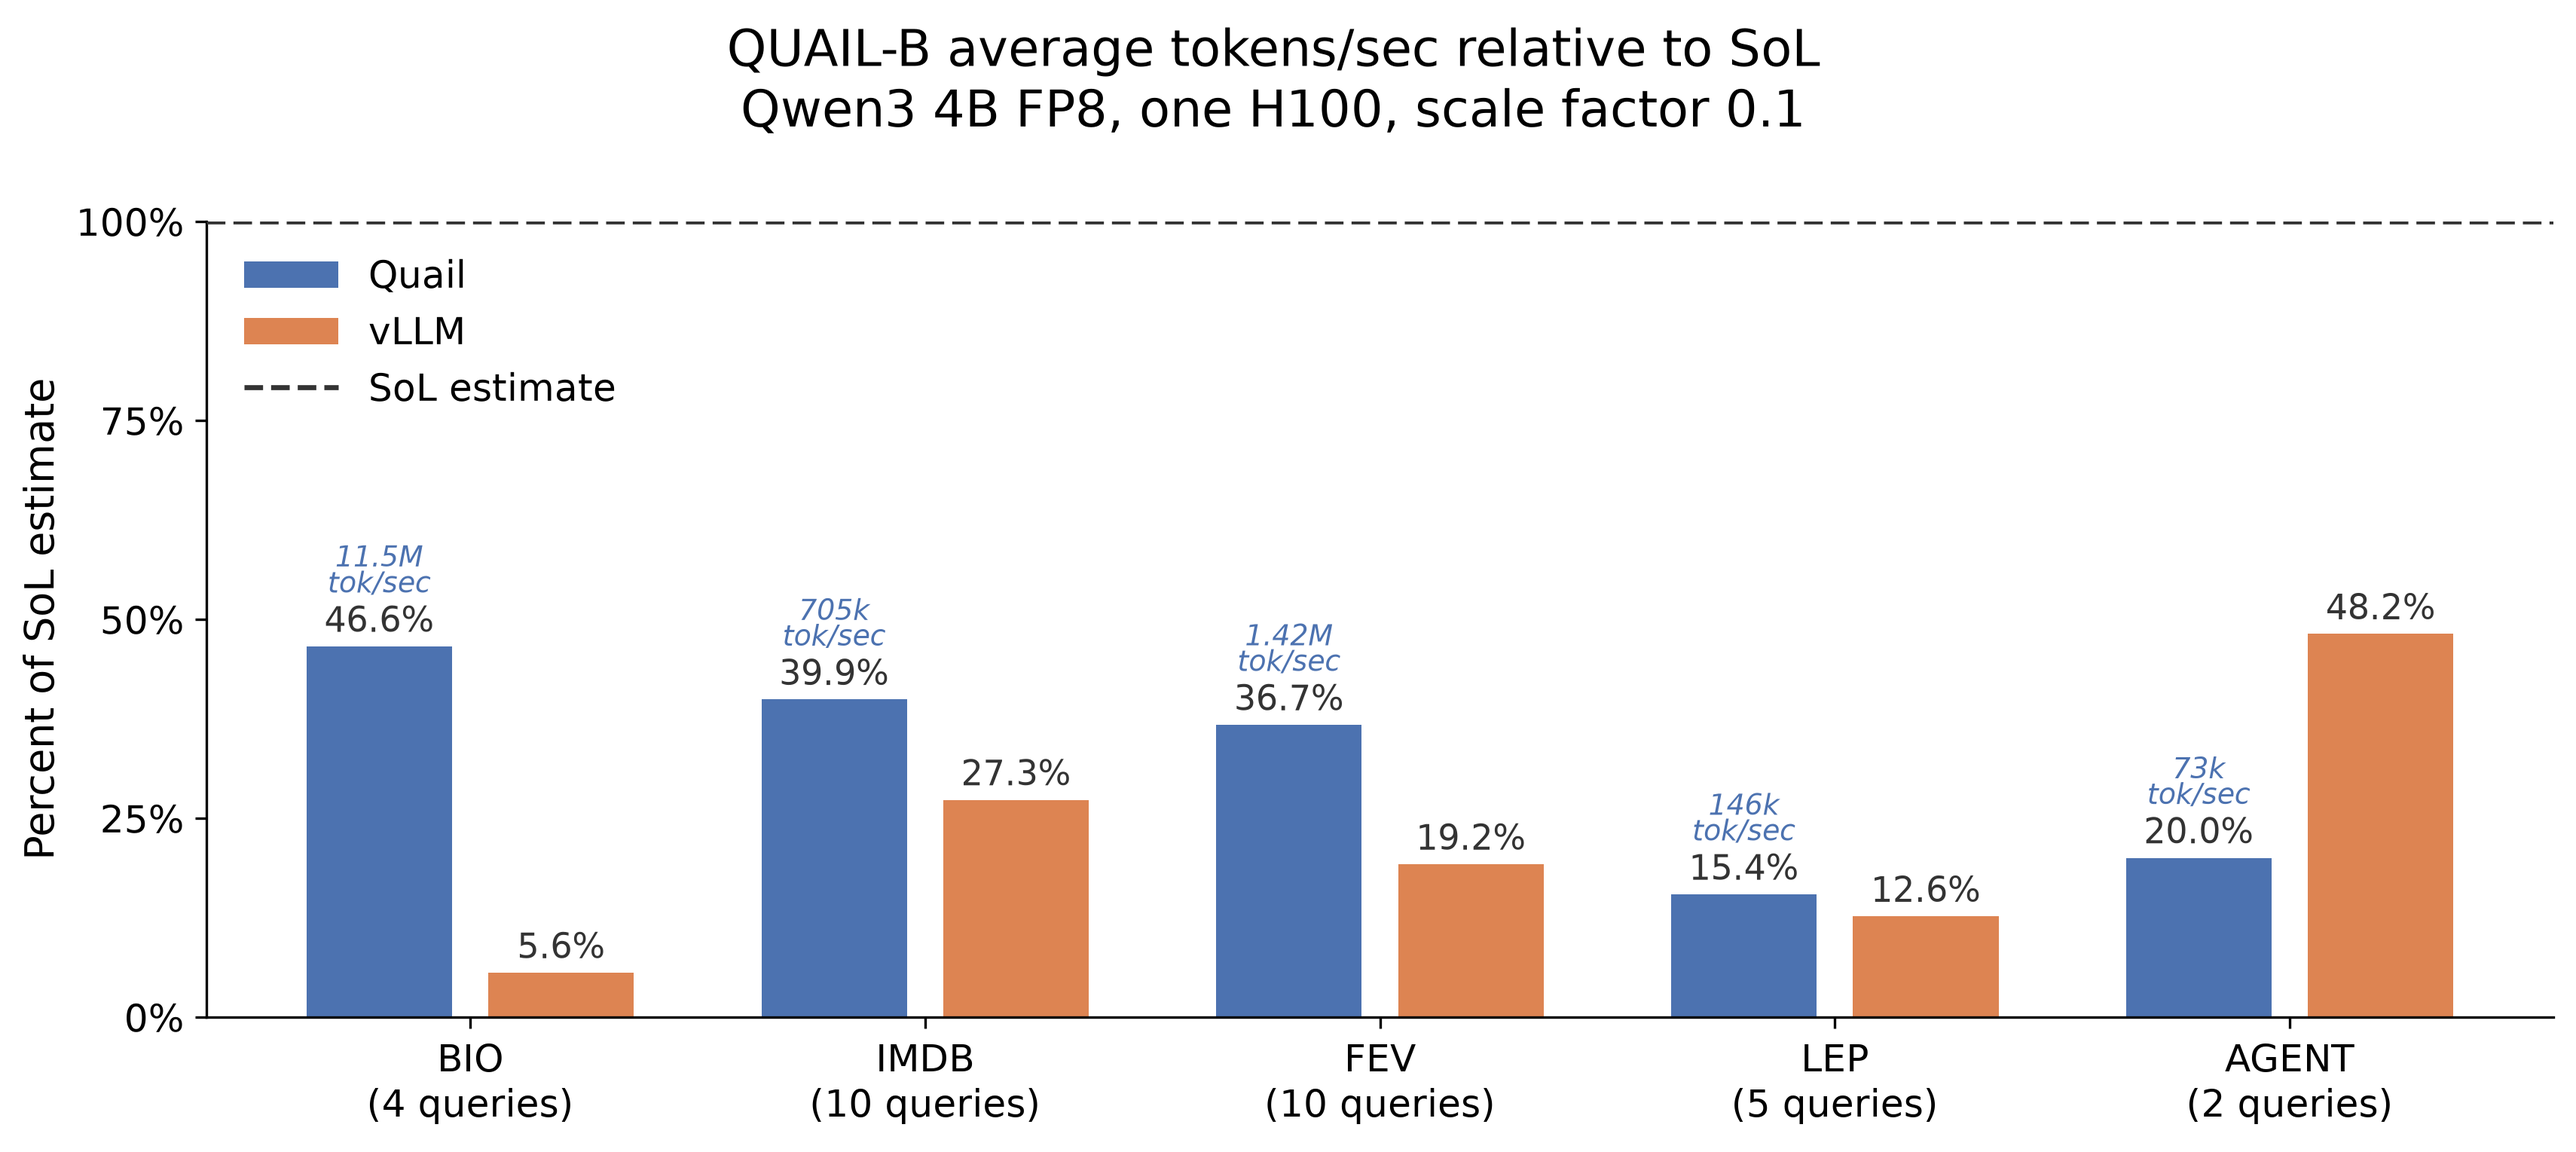
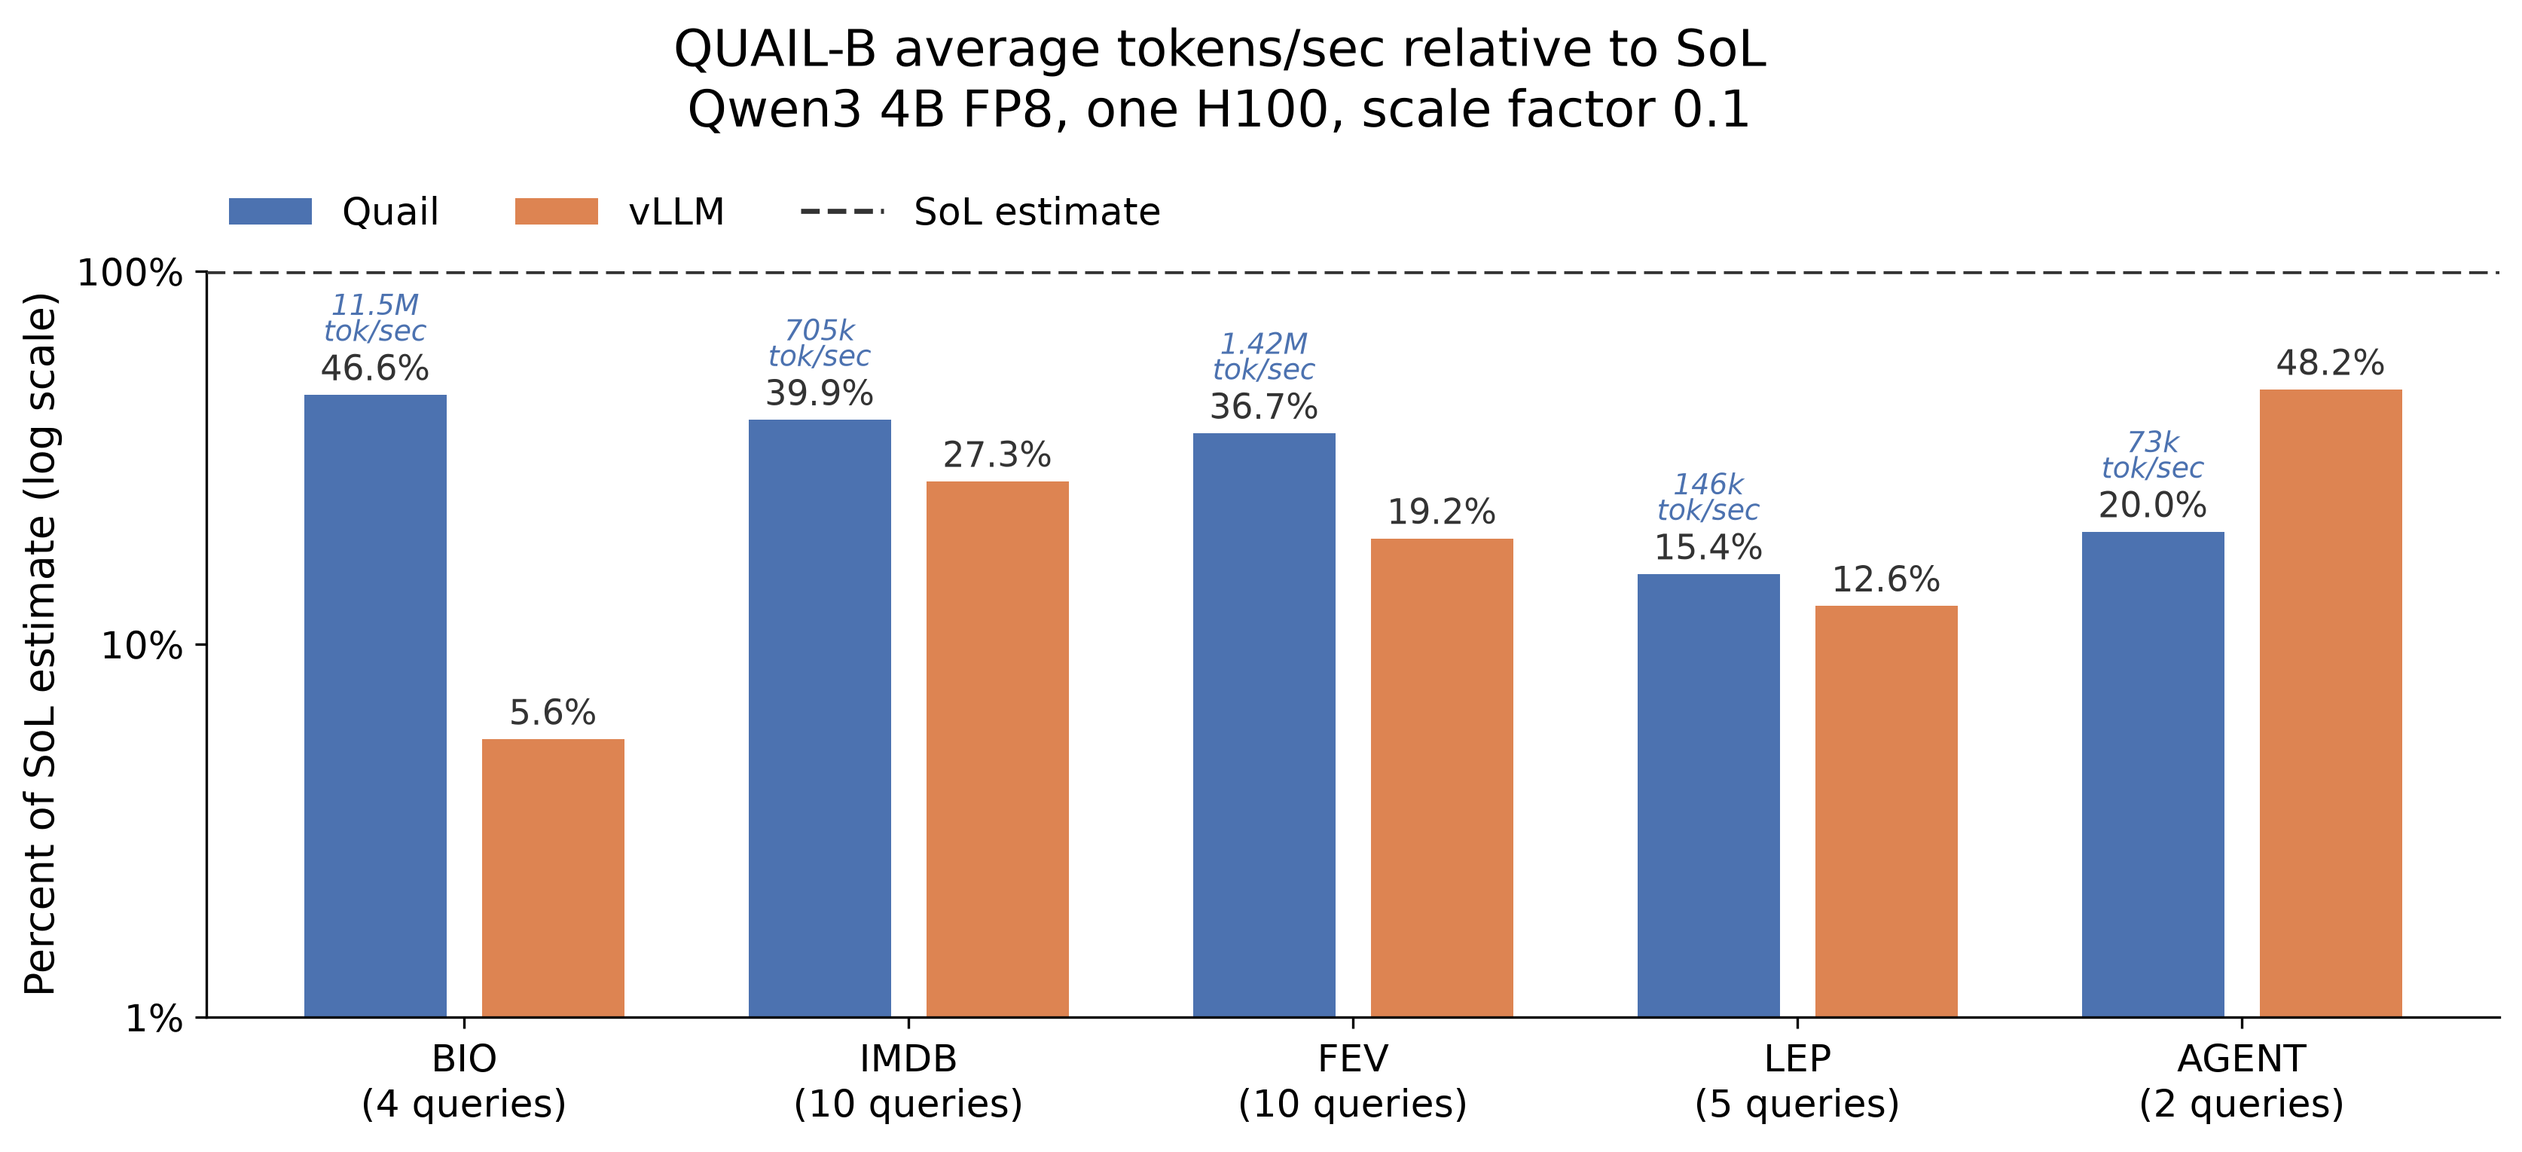
Use a log scale on the headline SoL chart (#166)
* Use a log scale on the headline SoL chart

The y-axis still peaks at 100% of SoL. Ticks are 1%, 10%, and 100%.

* Make the linear SoL chart shorter

Drop the log scale. Keep the y-axis peak at 100% of SoL and reduce
the figure height.

* Revert "Make the linear SoL chart shorter"

This reverts commit 70a84da76e71beb60d5d5fb7adeb46dced5300b1.

---------

diff --git a/blogs/intro/blogpost.html b/blogs/intro/blogpost.html
@@ -147,7 +147,7 @@ src="figures/quailb_tok_per_sec.png" style="width:100.0%"
 alt="Average requested input token throughput by dataset for Quail and vLLM, as a percent of SoL." /></a></p>
 <p><em>Figure 1. Average requested input tokens per second on QUAIL-B at
 scale factor 0.1, using Qwen3 4B FP8 on one H100, as a percent of each
-dataset’s SoL estimate. The top of the axis is 100% of SoL. SoL is the
+dataset’s SoL estimate. The top of the axis is 100% of SoL. The vertical axis uses a log scale. SoL is the
 optimistic lower bound on runtime from GPU arithmetic and memory traffic.
 Each bar is the dataset’s mean tokens per second divided by its mean SoL
 tokens per second. The label above each Quail percent is that bar’s mean
@@ -1434,7 +1434,7 @@ scale factor 1.0 results are in Section 4.3.</p>
 SoL estimate. For every method, we divide total requested input tokens by
 runtime. SoL uses the same requested-token total and its estimated
 runtime. Each bar divides the dataset’s mean rate by that dataset’s mean
-SoL rate. The top of the axis is 100% of SoL. On BIO, Quail averages
+SoL rate. The top of the axis is 100% of SoL. The vertical axis uses a log scale. On BIO, Quail averages
 about 11.5 million tokens per second, which is 46.6% of the 24.7 million
 SoL estimate, compared with 1.4 million for vLLM, or 5.6% of SoL. vLLM is
 ahead on AGENT, at 48.2% of SoL compared with 20.0% for Quail. The

diff --git a/blogs/intro/make_headline_tok_per_sec.py b/blogs/intro/make_headline_tok_per_sec.py
@@ -11,8 +11,9 @@ quail-b exposes this as input_tokens / input_tokens_per_second. Do not use
 per-method fresh_tokens.
 
 Each bar is that dataset's mean tokens/second divided by its mean SoL
-tokens/second. The y-axis runs from 0% to 100%, so the peak is the SoL
-estimate for every dataset. SoL is a dashed line at 100%, not a bar.
+tokens/second. The y-axis is a log scale and runs up to 100%, so the peak
+is the SoL estimate for every dataset. SoL is a dashed line at 100%, not
+a bar.
 
 The 2026-09-19 comparison marks BIO-1 and BIO-3 missing and has no BIO-4
 row. When the remake files below are in the workdir, this script fills
@@ -53,7 +54,7 @@ from pathlib import Path
 import matplotlib.pyplot as plt
 from matplotlib.lines import Line2D
 from matplotlib.patches import Patch
-from matplotlib.ticker import FixedLocator, FuncFormatter
+from matplotlib.ticker import FixedLocator, FuncFormatter, NullLocator
 
 HERE = Path(__file__).resolve().parent
 BLUE = "#4C72B0"
@@ -68,6 +69,7 @@ QUERY_COUNTS = {"IMDB": 10, "FEV": 10, "LEP": 5, "AGENT": 2, "BIO": 4}
 EXCLUDED_SAVED_QUERIES = frozenset({"LEP-5", "LEP-6", "LEP-8"})
 CURRENT_QUERY_ID = {"LEP-7": "LEP-5"}
 BIO_REMAKE_QUERIES = ("BIO-1", "BIO-3", "BIO-4")
+Y_MIN = 1
 Y_MAX = 100
 
 
@@ -255,14 +257,15 @@ def plot_headline(rows, destination: Path):
         ]
         containers = axis.bar(
             [position + offset for position in positions],
-            values,
+            [value - Y_MIN for value in values],
             width,
+            bottom=Y_MIN,
             color=color,
             zorder=2,
         )
         axis.bar_label(
             containers,
-            fmt="%.1f%%",
+            labels=[f"{value:.1f}%" for value in values],
             padding=2,
             fontsize=11,
             color=DARK,
@@ -296,13 +299,15 @@ def plot_headline(rows, destination: Path):
     )
 
     axis.set_xlim(-0.58, len(DATASETS) - 0.42)
-    axis.set_ylim(0, Y_MAX)
+    axis.set_yscale("log")
+    axis.set_ylim(Y_MIN, Y_MAX)
     axis.set_xticks(positions)
     axis.set_xticklabels(
         [f"{name}\n({len(by[name]['Quail'])} queries)" for name in DATASETS]
     )
-    axis.set_ylabel("Percent of SoL estimate")
-    axis.yaxis.set_major_locator(FixedLocator([0, 25, 50, 75, 100]))
+    axis.set_ylabel("Percent of SoL estimate (log scale)")
+    axis.yaxis.set_major_locator(FixedLocator([1, 10, 100]))
+    axis.yaxis.set_minor_locator(NullLocator())
     axis.yaxis.set_major_formatter(FuncFormatter(_percent_tick))
 
     axis.legend(
@@ -320,12 +325,14 @@ def plot_headline(rows, destination: Path):
             ),
         ],
         frameon=False,
-        loc="upper left",
-        borderaxespad=0.6,
-        handlelength=2.5,
+        loc="lower left",
+        bbox_to_anchor=(0.0, 1.02),
+        ncol=3,
+        borderaxespad=0.2,
+        handlelength=2.2,
     )
 
-    figure.subplots_adjust(left=0.10, right=0.98, bottom=0.18, top=0.82)
+    figure.subplots_adjust(left=0.12, right=0.98, bottom=0.18, top=0.78)
     destination = Path(destination)
     figure.savefig(destination.with_suffix(".pdf"), bbox_inches="tight")
     figure.savefig(destination.with_suffix(".png"), dpi=300, bbox_inches="tight")

diff --git a/blogs/intro/blogpost.md b/blogs/intro/blogpost.md
@@ -12,7 +12,7 @@ link-citations: true
 ::: {.figure-block .wide-figure}
 [![Average requested input token throughput by dataset for Quail and vLLM, as a percent of SoL.](figures/quailb_tok_per_sec.png){width=100%}](figures/quailb_tok_per_sec.pdf)
 
-*Figure 1. Average requested input tokens per second on QUAIL-B at scale factor 0.1, using Qwen3 4B FP8 on one H100, as a percent of each dataset's SoL estimate. The top of the axis is 100% of SoL. SoL is the optimistic lower bound on runtime from GPU arithmetic and memory traffic. Each bar is the dataset's mean tokens per second divided by its mean SoL tokens per second. The label above each Quail percent is that bar's mean tokens per second. The averages use the current 31 queries. The original LEP-5, LEP-6, and LEP-8 are excluded. Dataset labels show how many queries are averaged.*
+*Figure 1. Average requested input tokens per second on QUAIL-B at scale factor 0.1, using Qwen3 4B FP8 on one H100, as a percent of each dataset's SoL estimate. The top of the axis is 100% of SoL. The vertical axis uses a log scale. SoL is the optimistic lower bound on runtime from GPU arithmetic and memory traffic. Each bar is the dataset's mean tokens per second divided by its mean SoL tokens per second. The label above each Quail percent is that bar's mean tokens per second. The averages use the current 31 queries. The original LEP-5, LEP-6, and LEP-8 are excluded. Dataset labels show how many queries are averaged.*
 :::
 
 # 1. The growth of AI-powered data processing
@@ -516,7 +516,7 @@ The table below reports the 31 current QUAIL-B queries at scale factor 0.1. The 
 | LEP-5 | SoL | 900460.88 | 0 | 0.0014 |
 :::
 
-Figure 1 shows average tokens per second as a percent of each dataset's SoL estimate. For every method, we divide total requested input tokens by runtime. SoL uses the same requested-token total and its estimated runtime. Each bar divides the dataset's mean rate by that dataset's mean SoL rate. The top of the axis is 100% of SoL. On BIO, Quail averages about 11.5 million tokens per second, which is 46.6% of the 24.7 million SoL estimate, compared with 1.4 million for vLLM, or 5.6% of SoL. vLLM is ahead on AGENT, at 48.2% of SoL compared with 20.0% for Quail. The latency figure below keeps the per-query detail.
+Figure 1 shows average tokens per second as a percent of each dataset's SoL estimate. For every method, we divide total requested input tokens by runtime. SoL uses the same requested-token total and its estimated runtime. Each bar divides the dataset's mean rate by that dataset's mean SoL rate. The top of the axis is 100% of SoL. The vertical axis uses a log scale. On BIO, Quail averages about 11.5 million tokens per second, which is 46.6% of the 24.7 million SoL estimate, compared with 1.4 million for vLLM, or 5.6% of SoL. vLLM is ahead on AGENT, at 48.2% of SoL compared with 20.0% for Quail. The latency figure below keeps the per-query detail.
 
 ::: {.figure-block .wide-figure}
 [![Query latency for Quail, the vLLM baseline, and SoL estimates across the 31 default QUAIL-B queries. BIO-1 and BIO-3 are marked as not measured.](figures/quailb_latency.png){width=100%}](figures/quailb_latency.pdf)
